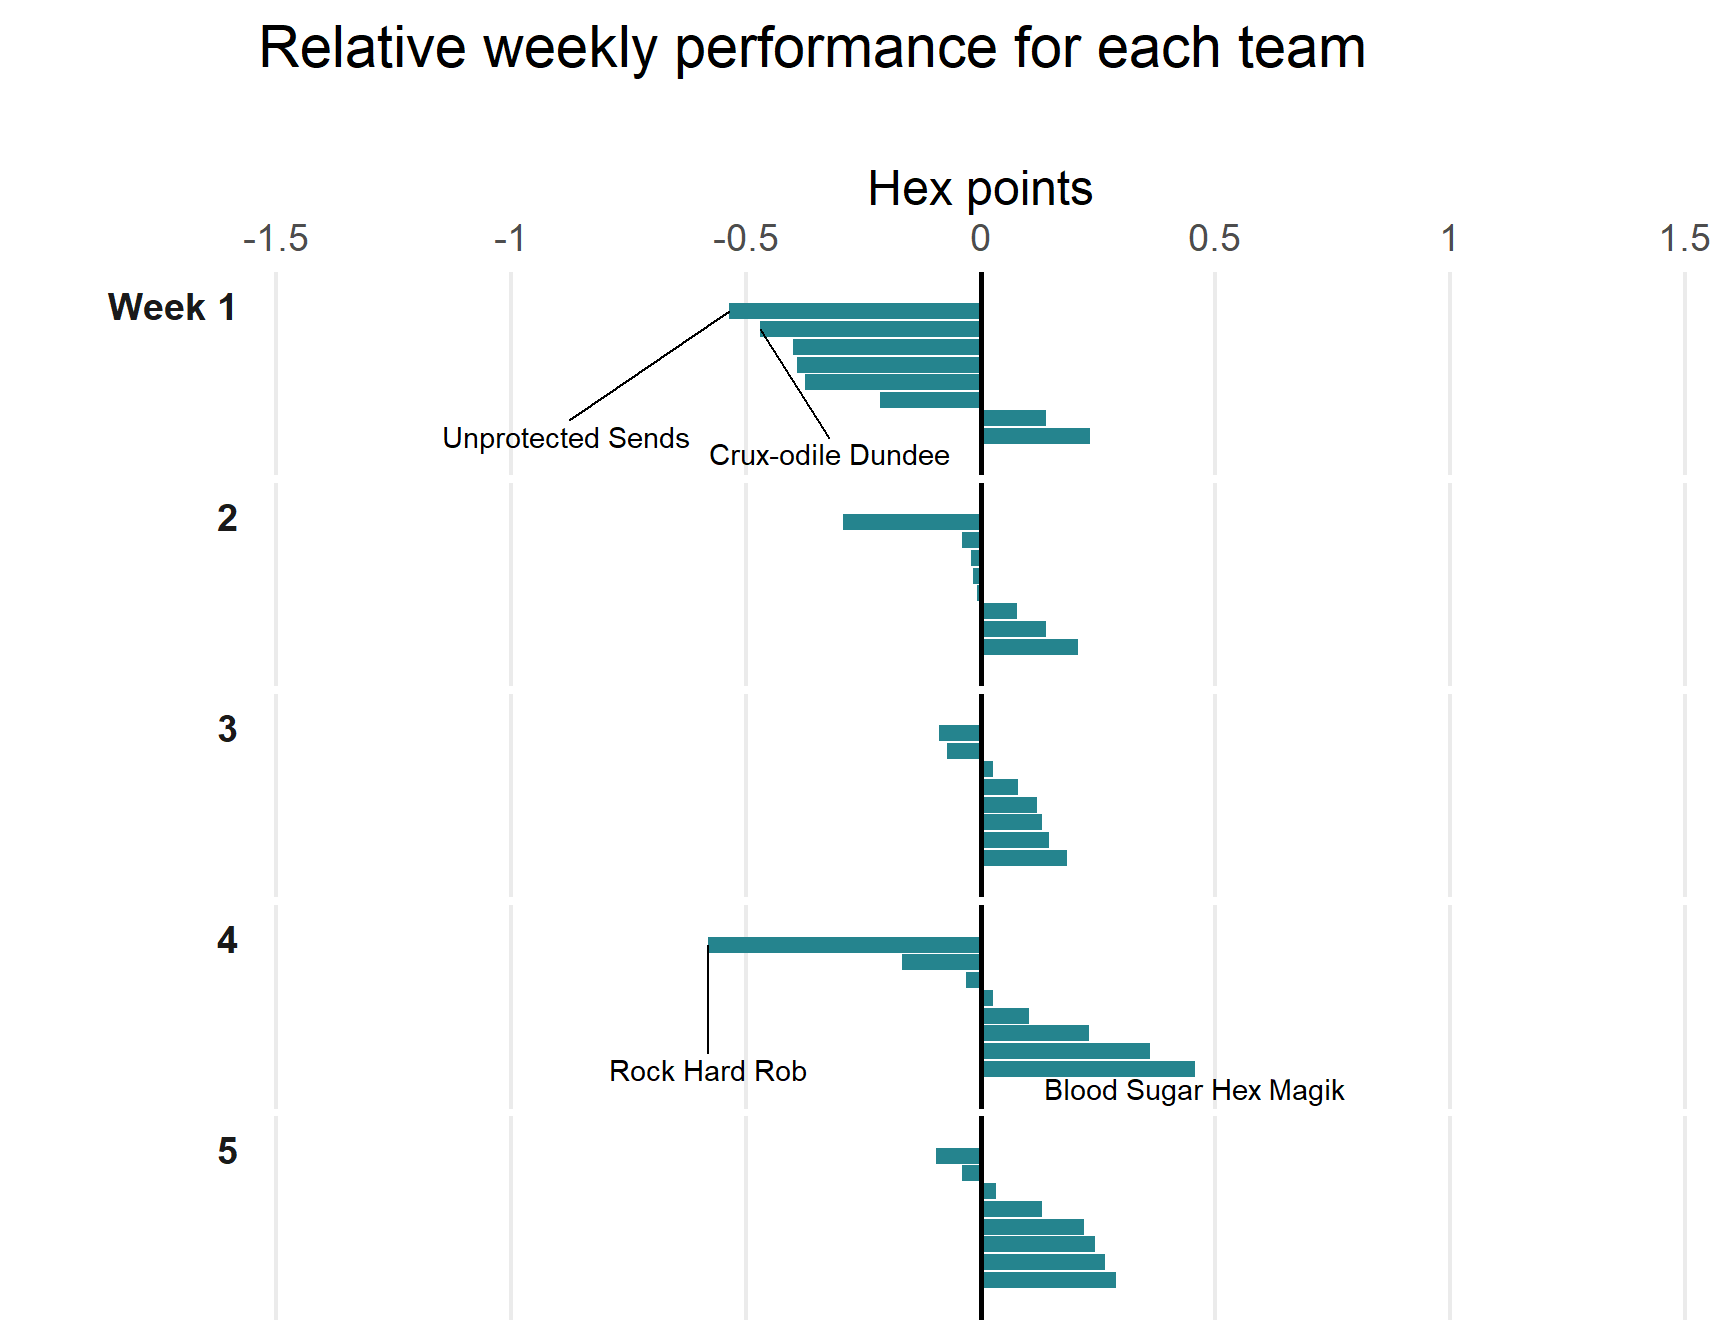
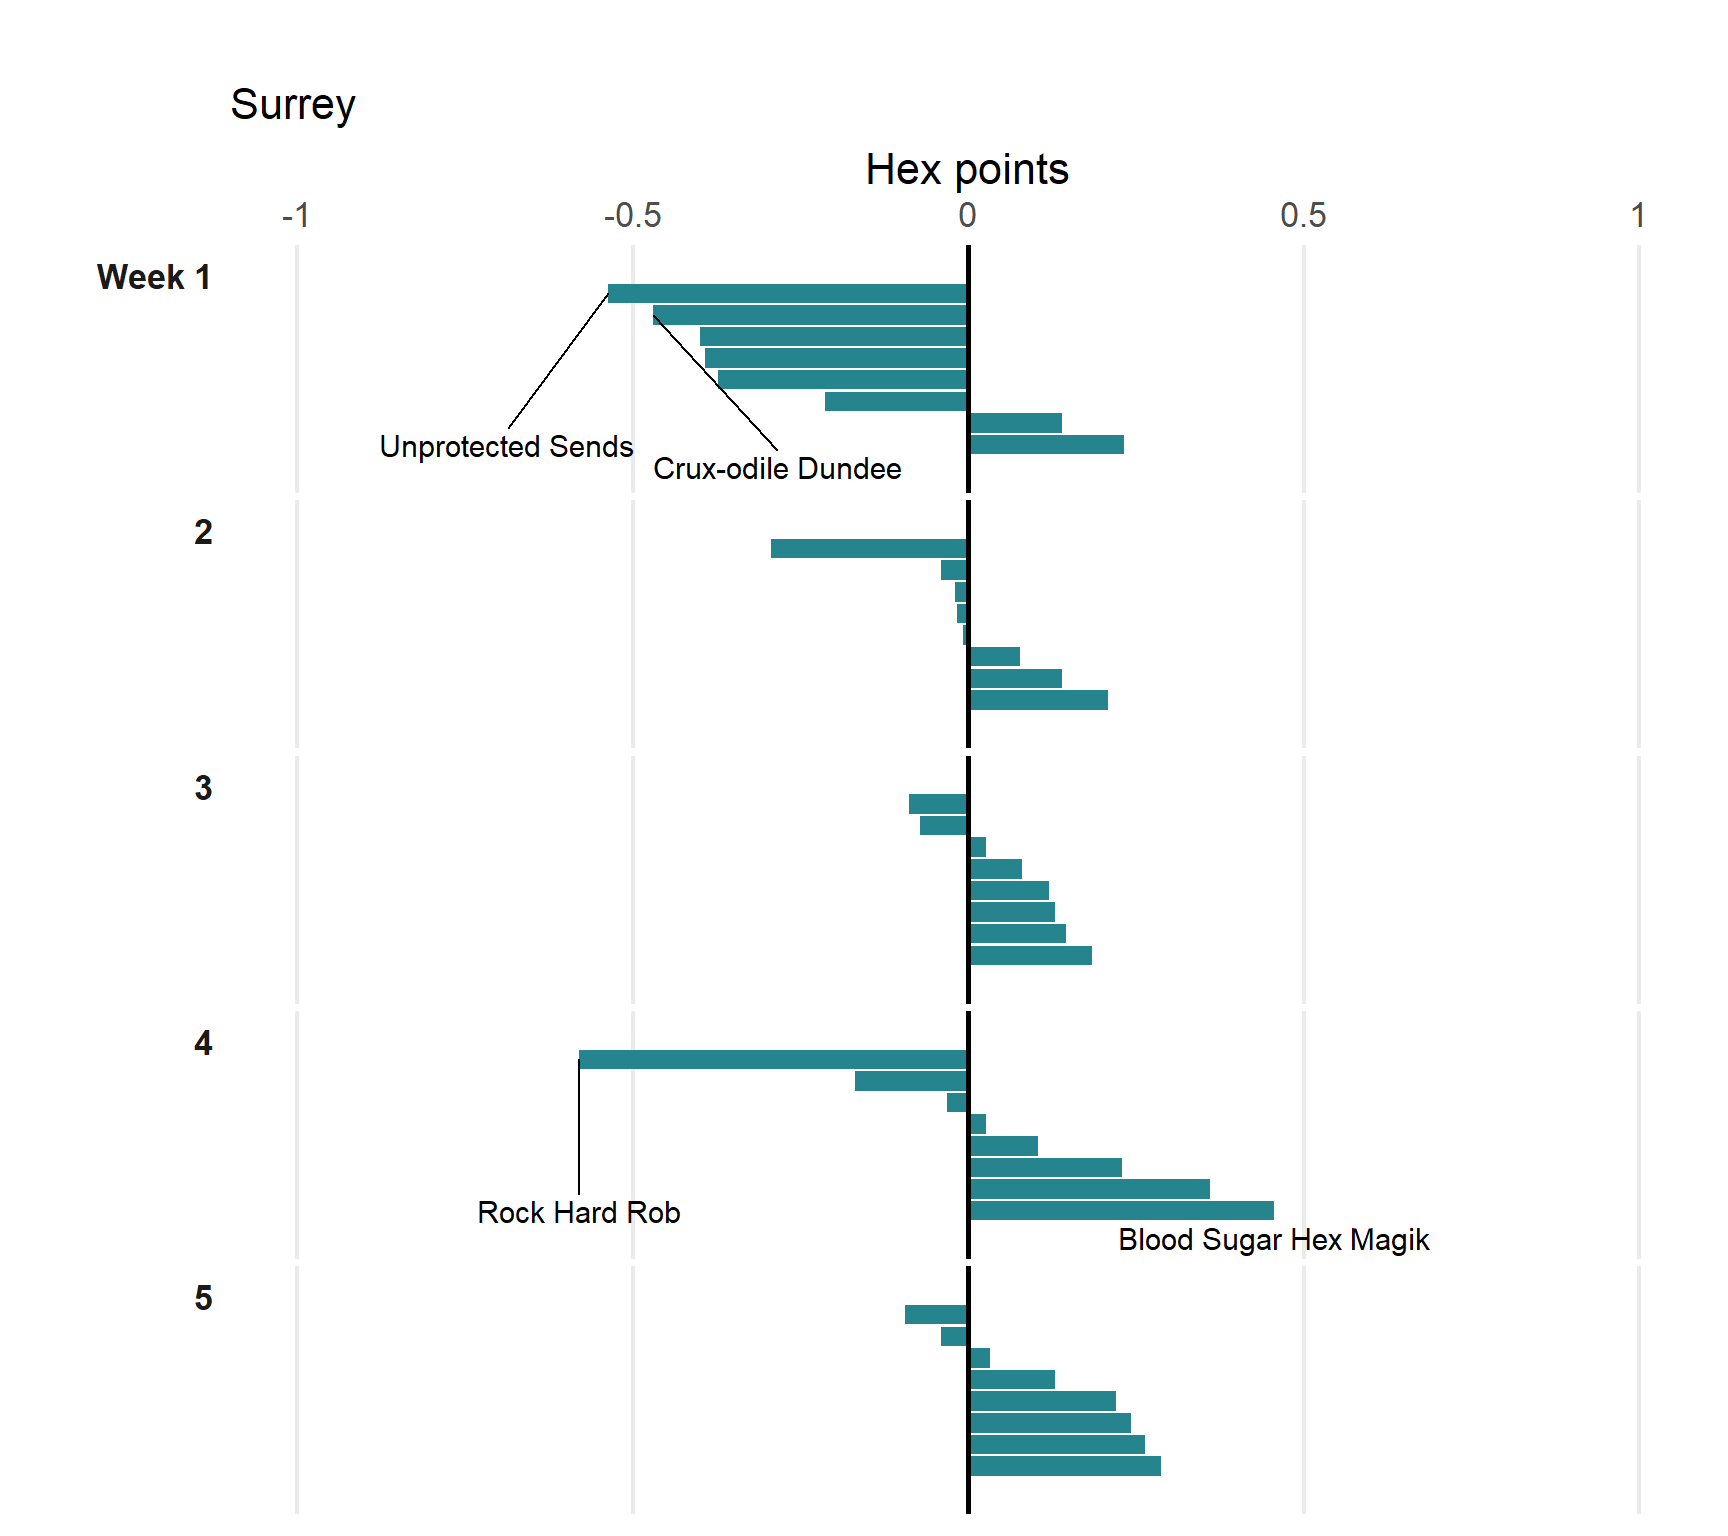
adjusted sizing to accommodate post format

diff --git a/content/post/2019-11-14-pacific-boulder-league-2019.html b/content/post/2019-11-14-pacific-boulder-league-2019.html
@@ -19,6 +19,8 @@ image:
   focal_point: ''
   preview_only: no
 projects: []
+editor_options: 
+  chunk_output_type: console
 ---
 
 
@@ -140,7 +142,8 @@ p.caption {
 <p>The Hex Grading System is unique to the Hive gyms (many climbing gyms use there own system nowadays). Here is how the hex grades translate to the more standard V-grade system:</p>
 <div id="hex-grading-system" class="section level4">
 <h4>Hex Grading System:</h4>
-<p><img src="/post/2019-11-14-pacific-boulder-league-2019_files/Hive_grades.PNG" /></p>
+<p><img src="/post/2019-11-14-pacific-boulder-league-2019_files/Hive_grades_1.PNG" />
+<img src="/post/2019-11-14-pacific-boulder-league-2019_files/Hive_grades_2.PNG" /></p>
 </div>
 </div>
 <div id="versus-2018" class="section level1">
@@ -193,44 +196,21 @@ Figure 1: Note: I interpret that when a team did not hand in their score, they s
 </ul>
 <p><strong>If would be interesting to further break this down by grade.</strong> Our team found week 2 easy, but only 35% of Vancouver teams performed better than their average that week. This is likely because our team climbed at a different grade range than most other teams. Problems that we were trying that week might have been easier, but at the same time, problems in other grade ranges could have been much harder.</p>
 <p><strong>Here (below plot) is a closer look at all teams relative weekly performance.</strong> The above percentages were calculated by simply counting the number of teams on either side of the 0 line. But with the below graph, we can see how much each team performed better/worst than their average, in terms of hex points. We can see that the performance almost never deviates that dramatically from the average (0 line).</p>
-<p><strong>But! Some teams had very dramatic swings in performance</strong>. For example, team <em>Generic Bouldering Team Name</em>, performed much worse in their 5th week. This is because this team had some members that suffered from injuries and had to drop out unfortunately.</p>
-<div id="vancouver" class="section level2">
-<h2>Vancouver</h2>
 <p><img src="/post/2019-11-14-pacific-boulder-league-2019_files/figure-html/unnamed-chunk-8-1.png" width="864" /></p>
-</div>
-<div id="north-shore" class="section level2">
-<h2>North Shore</h2>
+<p>Some teams had very dramatic swings in performance. For example, team <em>Generic Bouldering Team Name</em>, performed much worse in their 5th week. This is because this team had some members that suffered from injuries and had to drop out unfortunately.</p>
+<p>Here are the teams from North Shore and Surrey:</p>
 <p><img src="/post/2019-11-14-pacific-boulder-league-2019_files/figure-html/unnamed-chunk-9-1.png" width="864" /></p>
-</div>
-<div id="surrey" class="section level2">
-<h2>Surrey</h2>
 <p><img src="/post/2019-11-14-pacific-boulder-league-2019_files/figure-html/unnamed-chunk-10-1.png" width="864" /></p>
-</div>
+<p>Teams from North Shore and Surrey showed less variability in their scores compared to Vancouver. There were less teams that performed +/- 0.5 away from their average, but this could be explained in part by that there were less teams at these gyms.</p>
 </div>
 <div id="how-did-teams-compare-before-and-after-finals" class="section level1 tabset">
 <h1>How did teams compare before and after finals</h1>
-<p>The PBL Hive Finals had an interesting format, where scores for that week counted double and special <em>team problems</em> for bonus points were created. Scores from finals were then added on to the previous 5 weeks of scores to determine a final ranking/placement. The idea with these special rules was to allow teams an opportunity to drastically improve their ranking by performing better at finals than any other week.</p>
+<p>The PBL Hive Finals had an interesting format, where scores for that week <em>counted for double points</em> and special <em>team problems for bonus points</em> were created. Scores from finals were then added on to the previous 5 weeks of scores to determine a final ranking/placement. The idea with these special rules was to allow teams an opportunity to drastically improve their ranking by performing better at finals than any other week.</p>
 <p><strong>Did the ranking (e.g. 1st, 2nd, 3rd) of teams significantly change after finals?</strong></p>
-<p>Here is the change in weekly ranking for the teams that ended in the top 10 after finals. Click on the other tabs to view other teams<a href="#fn6" class="footnote-ref" id="fnref6"><sup>6</sup></a>.</p>
-<div id="top-10" class="section level2">
-<h2>Top 10</h2>
+<p>Here is the change in weekly ranking for the teams that ended in the top 10 after finals<a href="#fn6" class="footnote-ref" id="fnref6"><sup>6</sup></a>. Scroll down to see other teams.</p>
+<div id="teams-that-placed-in-the-top-10" class="section level2">
+<h2>Teams that placed in the top 10</h2>
 <p><img src="/post/2019-11-14-pacific-boulder-league-2019_files/figure-html/unnamed-chunk-12-1.png" width="864" /></p>
-</div>
-<div id="section" class="section level2">
-<h2>11-20</h2>
-<p><img src="/post/2019-11-14-pacific-boulder-league-2019_files/figure-html/unnamed-chunk-13-1.png" width="864" /></p>
-</div>
-<div id="section-1" class="section level2">
-<h2>21-30</h2>
-<p><img src="/post/2019-11-14-pacific-boulder-league-2019_files/figure-html/unnamed-chunk-14-1.png" width="864" /></p>
-</div>
-<div id="section-2" class="section level2">
-<h2>31-37</h2>
-<p><img src="/post/2019-11-14-pacific-boulder-league-2019_files/figure-html/unnamed-chunk-15-1.png" width="864" /></p>
-</div>
-</div>
-<div id="section-3" class="section level1">
-<h1></h1>
 <p>There’s some really interesting things going on here:</p>
 <ul>
 <li>The top 3 teams were really consistently in the lead the entire competition</li>
@@ -238,12 +218,31 @@ Figure 1: Note: I interpret that when a team did not hand in their score, they s
 <ul>
 <li>Teams <em>Jako</em> and <em>Crimp My Ride</em> had rough starts (bottom 60%) but dramatically overtook other teams by the end of the competition.</li>
 </ul></li>
-<li><em>Generic Bouldering Team Name</em> started off in 2nd place, was in 5th place before finals, and then ended up placing 17th after finals.</li>
+</ul>
+</div>
+<div id="teams-that-placed-11-20" class="section level2">
+<h2>Teams that placed 11-20</h2>
+<p><img src="/post/2019-11-14-pacific-boulder-league-2019_files/figure-html/unnamed-chunk-13-1.png" width="864" /></p>
+<ul>
+<li><em>Generic Bouldering Team Name</em> started off in 2nd place, was in 5th place before finals, and then ended up placing 17th after finals</li>
 <li><em>Jugs Not Drugs</em> started in 34th position (4th last), crawled to 26th position before finals, and ended up in 19th after finals.</li>
-<li>Many other teams (<em>Soft Rock, Aaron Lacovitti, Our Beta is no-guchi, One Hex Flex</em>) seemed to be doing well before finals, before dropping dramatically post-finals. These were likely teams that did not participate in the finals.</li>
+</ul>
+</div>
+<div id="section" class="section level2">
+<h2>21-30</h2>
+<p><img src="/post/2019-11-14-pacific-boulder-league-2019_files/figure-html/unnamed-chunk-14-1.png" width="864" /></p>
+<ul>
 <li><strong>Teams that ended up placing in the middle (ranks 21-30), often showed dramatic changes in both directions to their ranking after the final.</strong></li>
 </ul>
+</div>
+<div id="section-1" class="section level2">
+<h2>31-37</h2>
+<p><img src="/post/2019-11-14-pacific-boulder-league-2019_files/figure-html/unnamed-chunk-15-1.png" width="864" /></p>
+<ul>
+<li>Many other teams (<em>Soft Rock, Aaron Lacovitti, Our Beta is no-guchi, One Hex Flex</em>) seemed to be doing well before finals, before dropping dramatically post-finals. These were likely teams that did not participate in the finals.</li>
+</ul>
 <p>Many teams did in fact improve their ranking after finals, but many teams also dropped rankings too. Personally, I really liked <em>most</em><a href="#fn7" class="footnote-ref" id="fnref7"><sup>7</sup></a> the format of the finals. I think giving teams a chance to catch up makes it more interesting. It was just unfortunate timing for many.</p>
+</div>
 </div>
 <div id="conclusion" class="section level1">
 <h1>Conclusion</h1>
